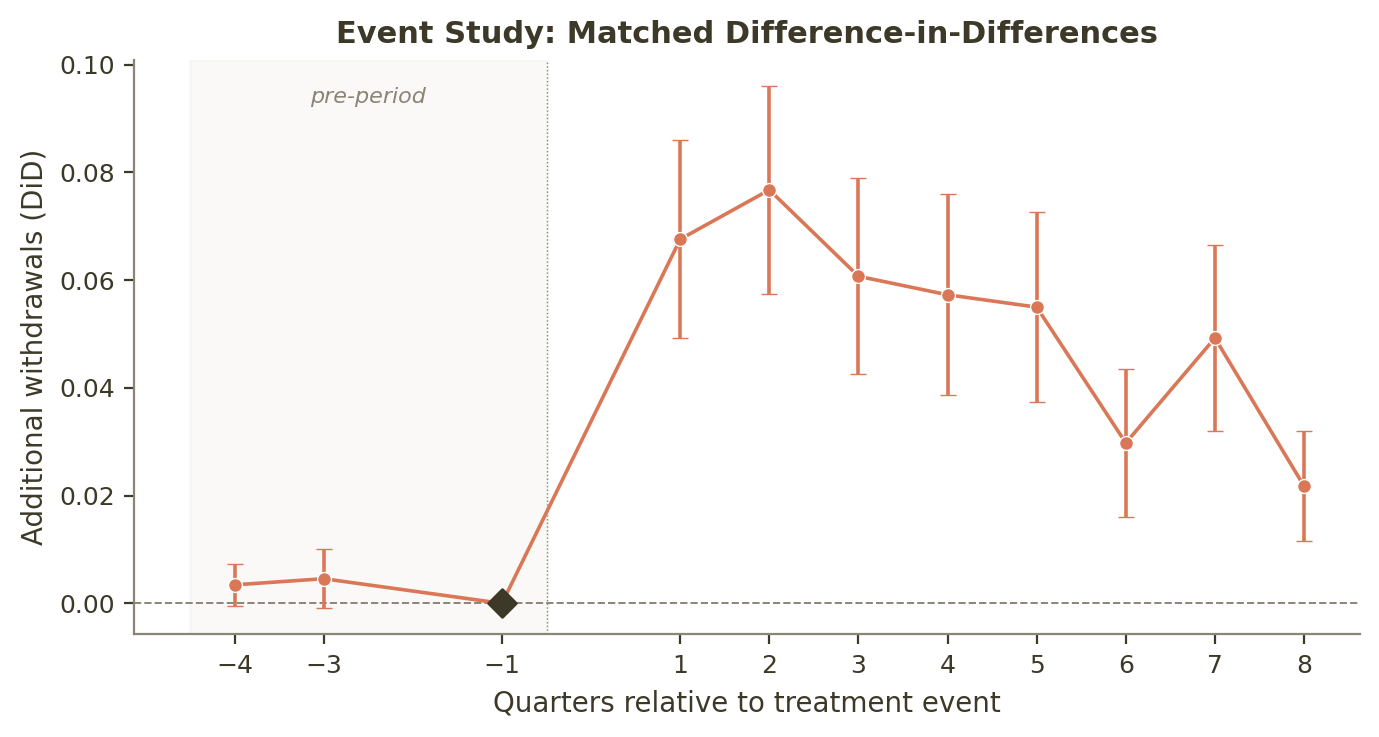
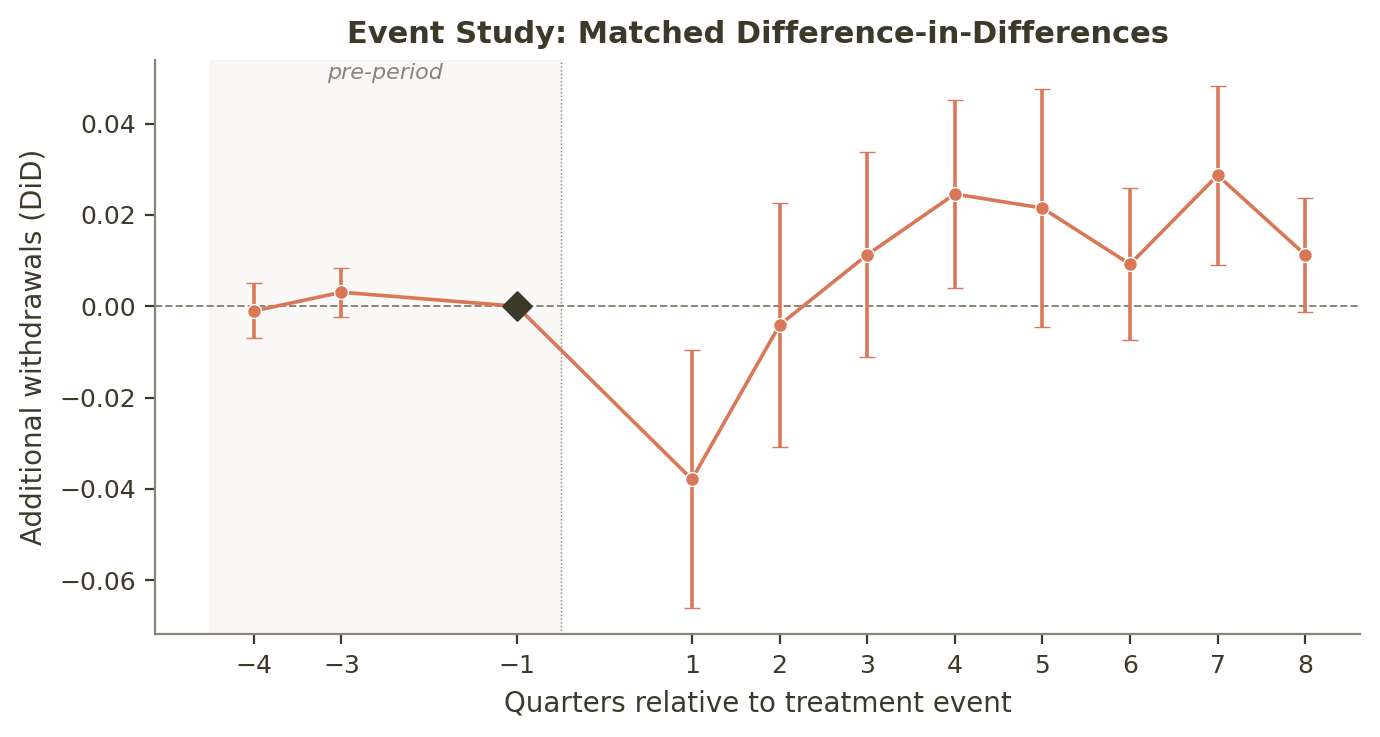
Fix matched_did.py CSV-overwrite bug and regenerate outputs
event_study_regression() was writing event_study_coefficients.csv and
pre_trend_test.csv from inside the function, so each sensitivity branch
(diff-developer, no-batch, depth-tolerance, strict-controls) overwrote
the main-analysis CSVs. The strict-controls branch ran last, so the
on-disk CSVs reflected its +0.068 upper-bound subset rather than the
+0.029 main-analysis peak. Figures were unaffected (suffix-based names).

Move the two writes into main() so only the main-analysis betas are
persisted. Regenerated matched-DiD tables and figures end-to-end, plus
brief output figures derived from those tables.

diff --git a/contagion/matched_did.py b/contagion/matched_did.py
@@ -510,8 +510,6 @@ def event_study_regression(es_panel):
     print(f"\n  === Event-Study Coefficients ===")
     print(betas_df.to_string(index=False))
 
-    betas_df.to_csv(os.path.join(TABLES_DIR, "event_study_coefficients.csv"), index=False)
-
     # Pre-trend F-test: joint test that beta_{-4} = beta_{-3} = beta_{-2} = 0
     pre_indices = [col_names.index(f"treat_x_k{k}") for k in [-4, -3, -2] if f"treat_x_k{k}" in col_names]
     if len(pre_indices) > 0:
@@ -529,8 +527,6 @@ def event_study_regression(es_panel):
                      "pre_betas": betas_df[betas_df["event_time"].isin([-4, -3, -2])]["beta"].tolist()}
     else:
         pre_trend = {"f_stat": np.nan, "p_value": np.nan, "pre_betas": []}
-
-    pd.DataFrame([pre_trend]).to_csv(os.path.join(TABLES_DIR, "pre_trend_test.csv"), index=False)
 
     return betas_df, pre_trend, result
 
@@ -965,6 +961,8 @@ def main():
 
     # Event-study regression
     betas, pre_trend, es_model = event_study_regression(es_panel)
+    betas.to_csv(os.path.join(TABLES_DIR, "event_study_coefficients.csv"), index=False)
+    pd.DataFrame([pre_trend]).to_csv(os.path.join(TABLES_DIR, "pre_trend_test.csv"), index=False)
 
     # Flag pre-trend failure
     pre_trend_ok = pre_trend["p_value"] > 0.05 if not np.isnan(pre_trend.get("p_value", np.nan)) else True

diff --git a/contagion/output/matched_did/matched_did_results.md b/contagion/output/matched_did/matched_did_results.md
@@ -114,4 +114,4 @@ The immediate k=1 coefficient is significantly *negative* (-0.048, p=0.005), sug
 
 ---
 
-*Generated by `matched_did.py` — 2026-04-10 14:06*
+*Generated by `matched_did.py` — 2026-04-25 12:57*
